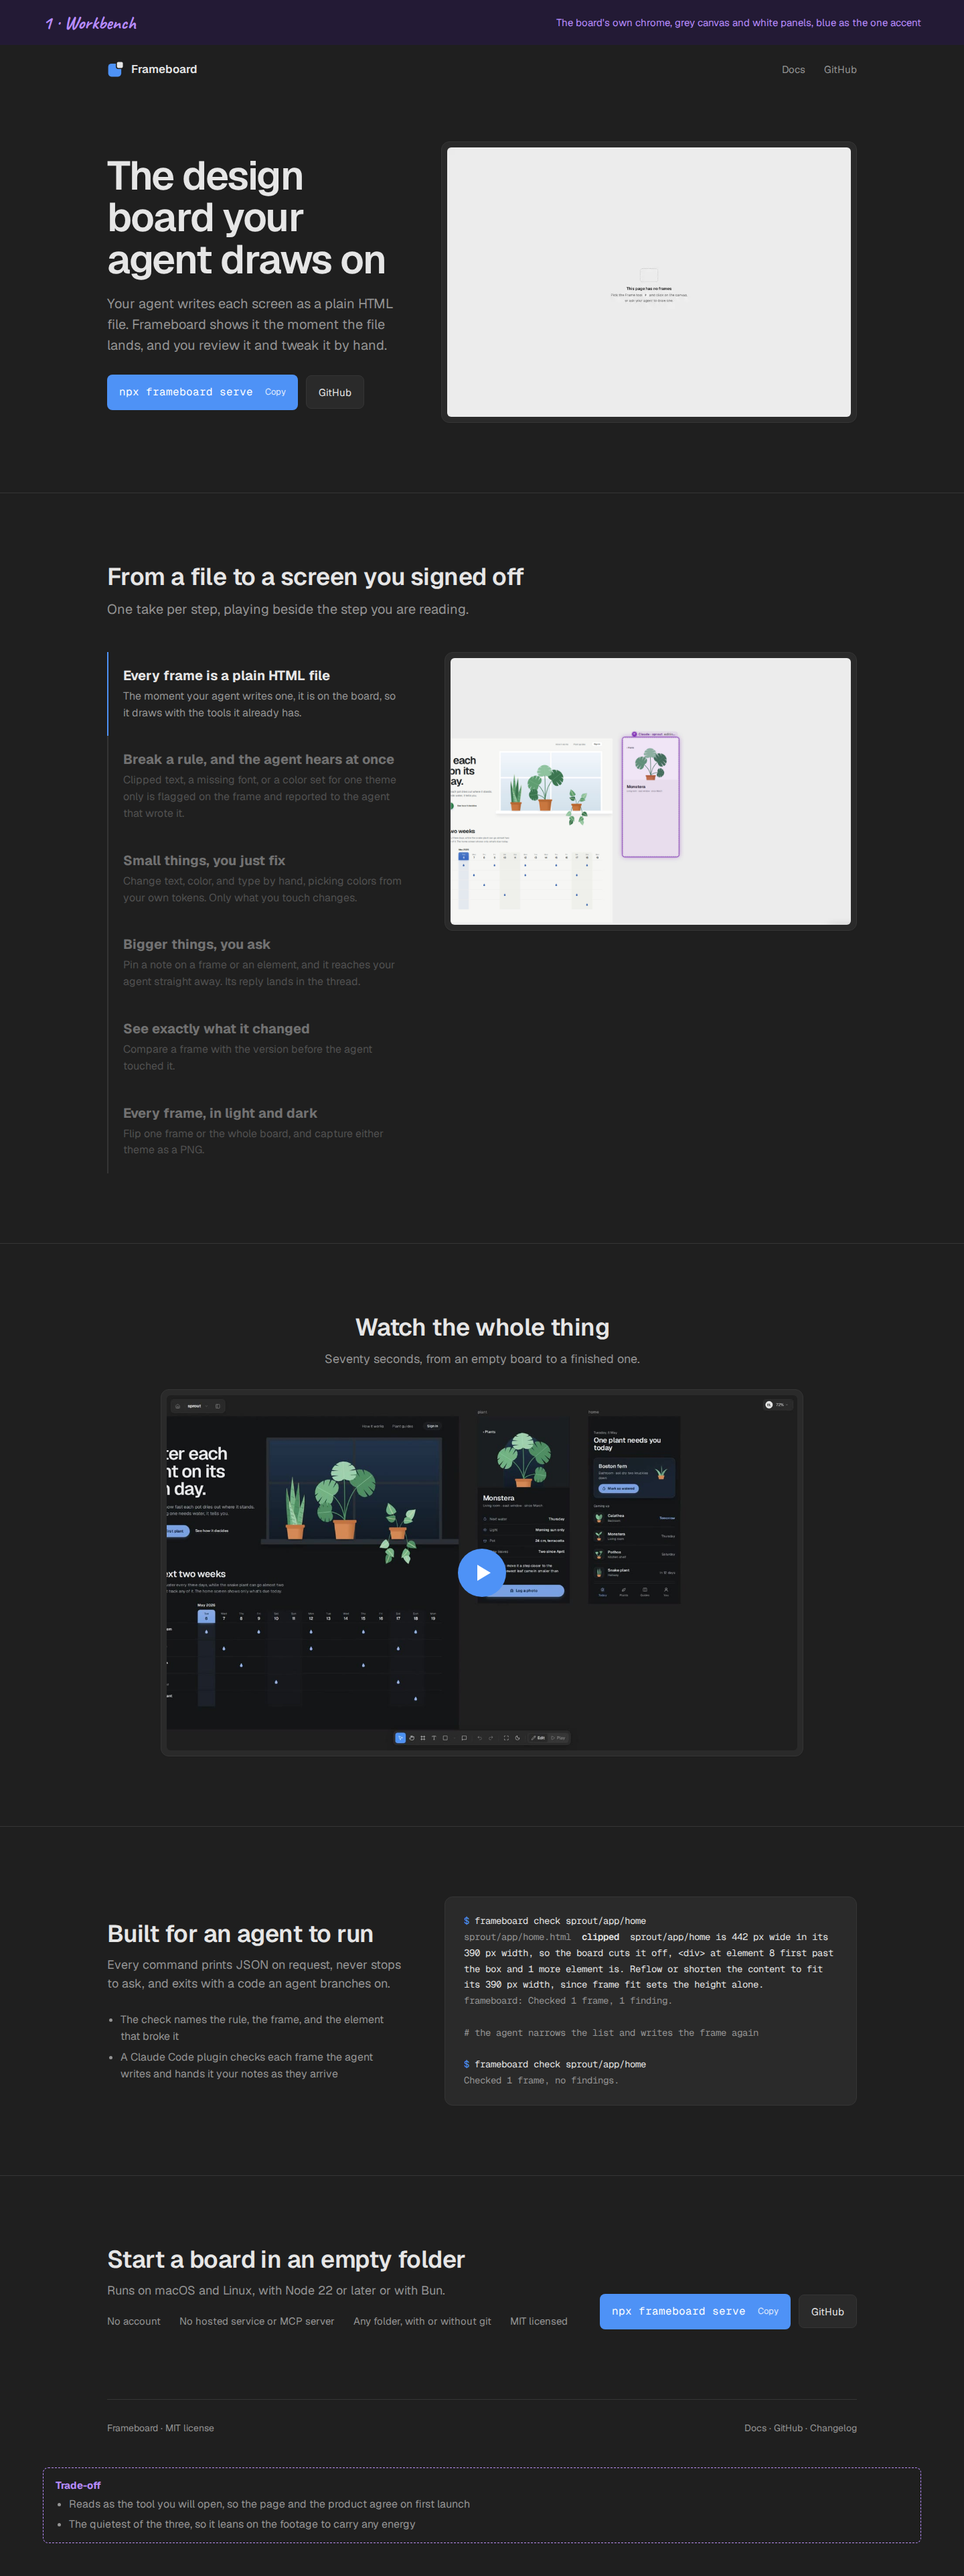
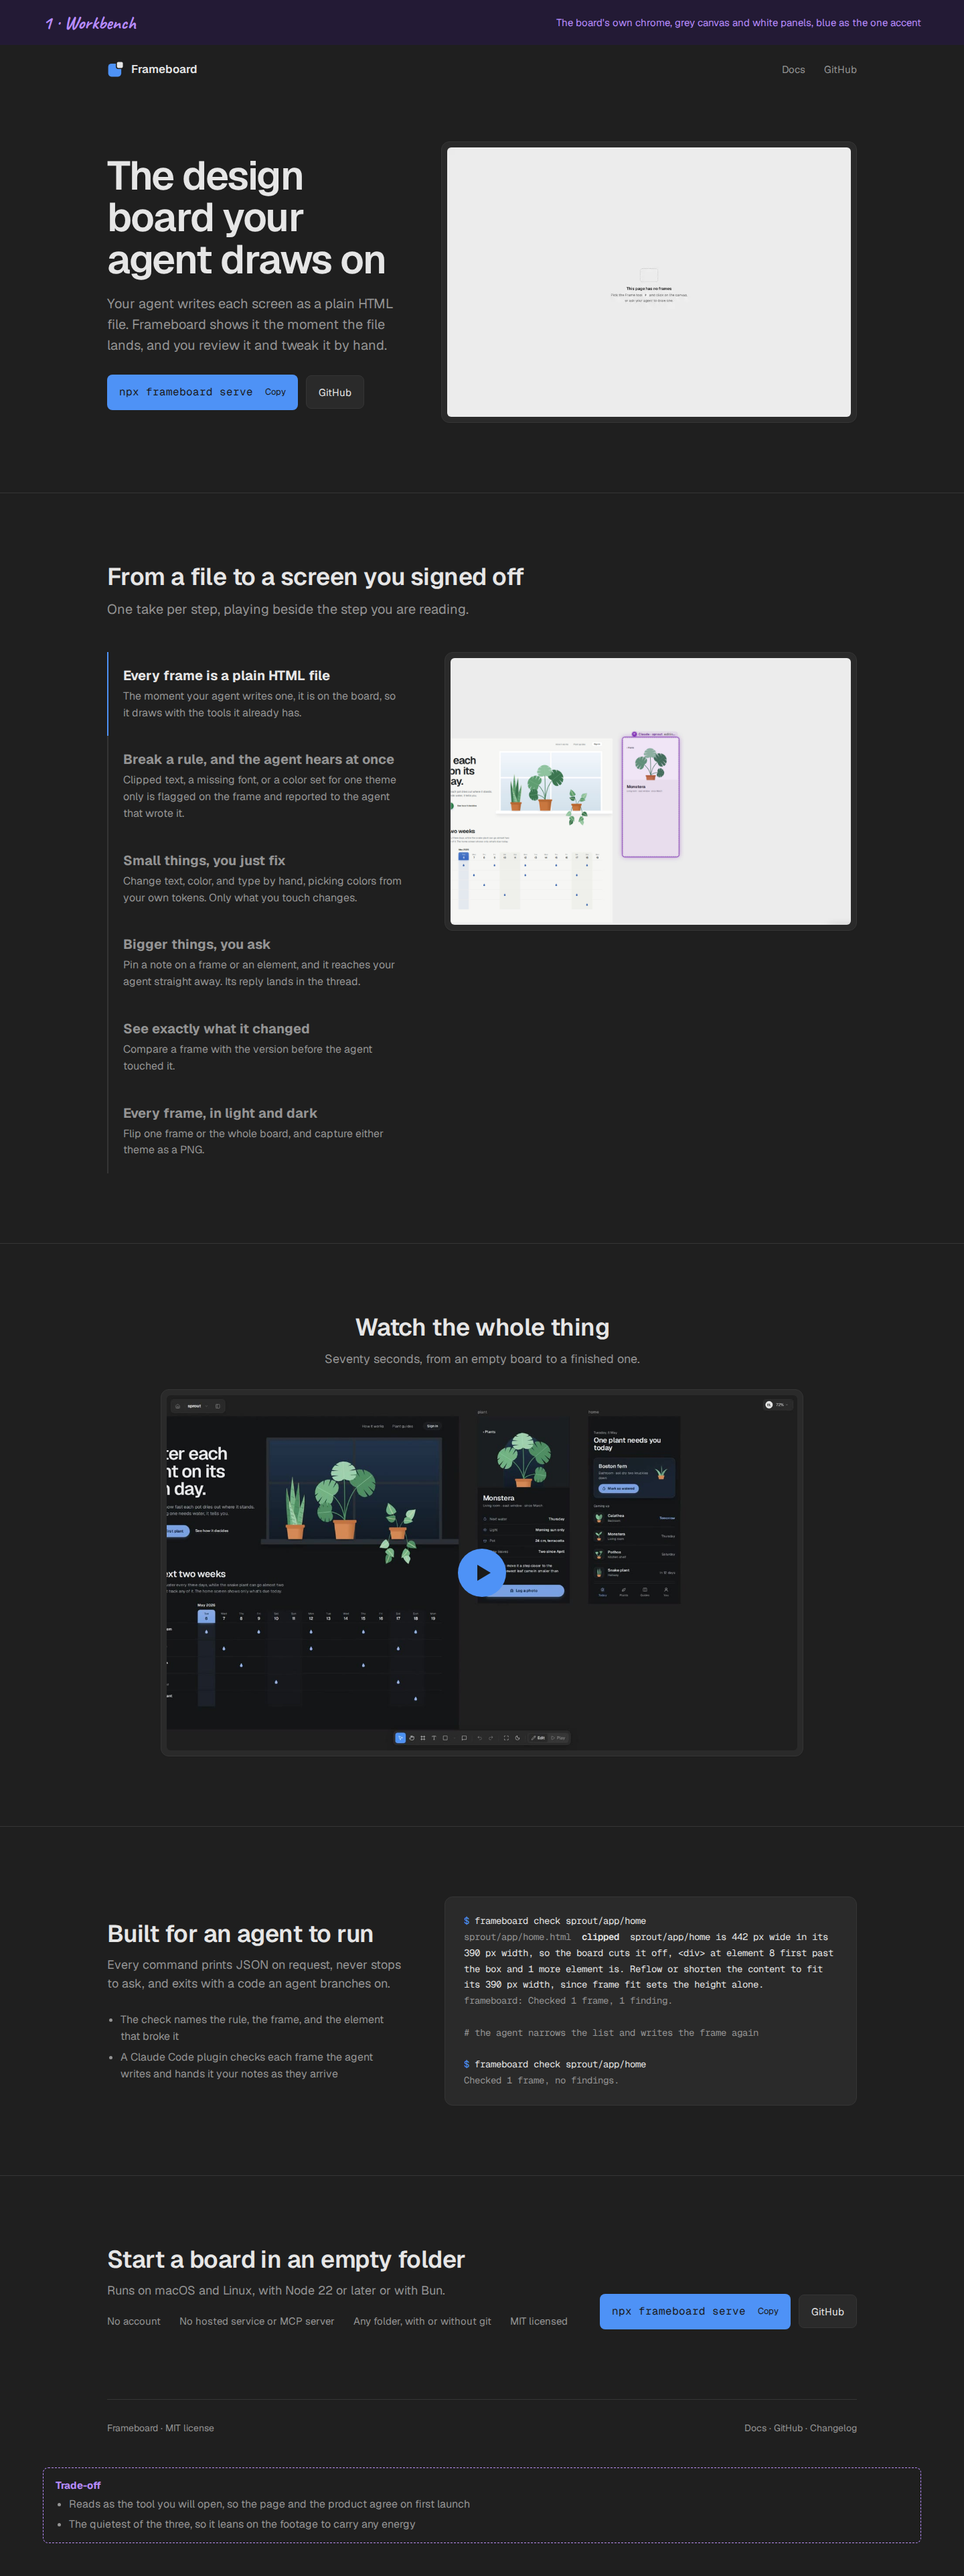
docs(design): redraw the landing at 4.5:1 text contrast

Changed region(s): [[0.125, 0.281, 0.4062, 0.437]]

diff --git a/canon/design/landing/page.html b/canon/design/landing/page.html
@@ -131,9 +131,8 @@
         margin: 0;
         font-size: 16px;
       }
-      .steps > div:not(.on) h3,
-      .steps > div:not(.on) p {
-        opacity: 0.42;
+      .steps > div:not(.on) h3 {
+        color: var(--muted);
       }
       .stick {
         position: sticky;
@@ -236,10 +235,10 @@
       :root {
         --bg: #ececec;
         --fg: #1a1a1a;
-        --muted: #6e6e6e;
+        --muted: #666666;
         --panel: #ffffff;
         --line: #e4e4e4;
-        --accent: #2f7bf0;
+        --accent: #2a6fdb;
         --on-accent: #ffffff;
         --note: #8250df;
         --note-bg: #fbefff;
@@ -251,7 +250,7 @@
         --panel: #2a2a2a;
         --line: #353535;
         --accent: #4e92f6;
-        --on-accent: #ffffff;
+        --on-accent: #1a1a1a;
         --note: #b88cff;
         --note-bg: #231a35;
       }
@@ -287,7 +286,6 @@
       }
       .cmd span {
         color: var(--on-accent);
-        opacity: 0.8;
       }
       .btn {
         height: 50px;
